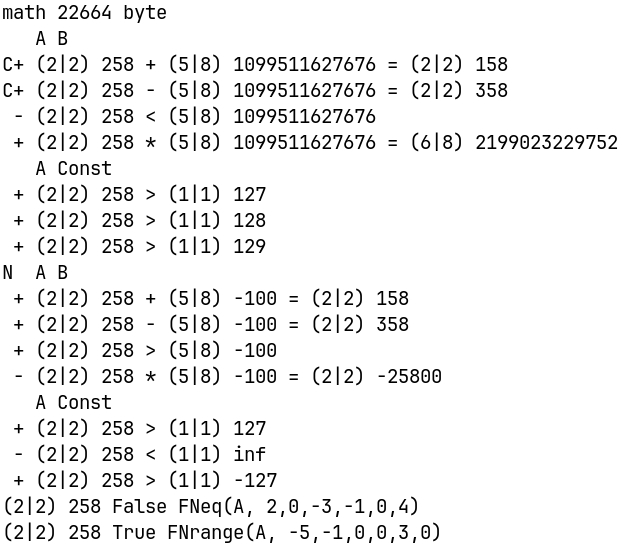
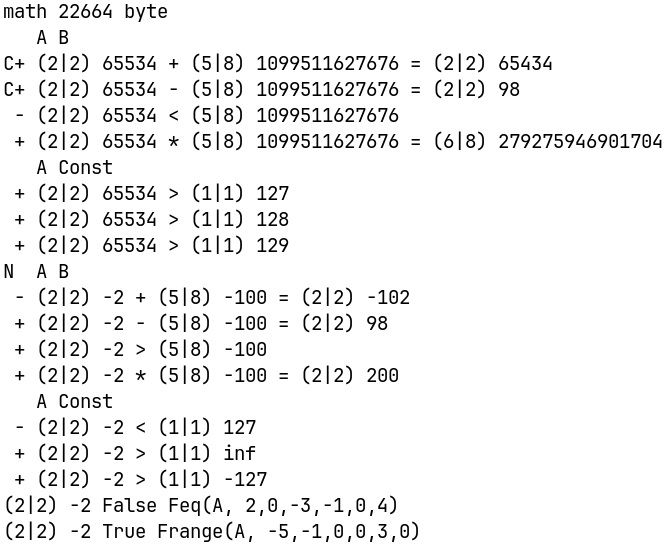
v19.5

Changed region(s): [[0.0, 0.0, 0.9968, 0.9982], [0.0, 0.4679, 0.0302, 0.5303], [0.0, 0.156, 0.0302, 0.1872]]

diff --git a/math.h b/math.h
@@ -47,7 +47,6 @@ void FMUL(an r, an a, anu l, an b);             // Умножение r = a * b
 void FCMUL(an r, an a, anu l, an c);            // r = a * Const
 void FDIV(an r, an e, an a, anu l, an b);       // Деление r = a / b, e = a mod b - Евклид {+}
 void FCDIV(an r, an e, an a, anu l, an c);      // r = a / Const, e = a mod Const
-
 extern Math Mat;
 #define MATH_CACHE_INIT Math Mat = {0};
 #define Anu(...) (anu)(sizeof((anu[]){0, ##__VA_ARGS__})-1), (anu[]){0, ##__VA_ARGS__}+1
@@ -62,36 +61,36 @@ extern Math Mat;
 #define Fvar(f, r, ...) FVI(f, r, Anu(__VA_ARGS__))
 #define Fvi(r, ...) FVI(0, r, Anu(__VA_ARGS__))
 #define Fbvi(r, ...) FVI(1, r, Anu(__VA_ARGS__))
-#define FAdd(r, a) FADD(r, a, Mat.lb, Mat.B)
+#define FRAdd(r, a) FADD(r, a, Mat.lb, Mat.B)
 #define FCAdd(r, a, ...) FCADD(r, a, Anu(__VA_ARGS__))
-#define Fadd(r) FADD(r, r, Mat.lb, Mat.B)
+#define FRadd(r) FADD(r, r, Mat.lb, Mat.B)
 #define FCadd(r, ...) FCADD(r, r, Anu(__VA_ARGS__))
-#define FSub(r, a) FSUB(r, a, Mat.lb, Mat.B)
+#define FRSub(r, a) FSUB(r, a, Mat.lb, Mat.B)
 #define FCSub(r, a, ...) FCSUB(r, a, Anu(__VA_ARGS__))
-#define Fsub(r) FSUB(r, r, Mat.lb, Mat.B)
+#define FRsub(r) FSUB(r, r, Mat.lb, Mat.B)
 #define FCsub(r, ...) FCSUB(r, r, Anu(__VA_ARGS__))
-#define Fcmp(a) FCMP(a, Mat.lb, Mat.B)
+#define FRcmp(a) FCMP(a, Mat.lb, Mat.B)
 #define FCcmp(a, ...) FCCMP(a, Anu(__VA_ARGS__))
-#define FNeq(a, ...) FEQ(a, Anu(__VA_ARGS__))
-#define FNrange(a, ...) FRANGE(a, Anu(__VA_ARGS__))
-#define Feq(a) (FCMP(a, Mat.lb, Mat.B), Mat.F)               // a == b
+#define Feq(a, ...) FEQ(a, Anu(__VA_ARGS__))
+#define Frange(a, ...) FRANGE(a, Anu(__VA_ARGS__))
+#define FReq(a) (FCMP(a, Mat.lb, Mat.B), Mat.F)              // a == b
 #define FCeq(a, ...) (FCCMP(a, Anu(__VA_ARGS__)), Mat.F)
-#define Fne(a) (FCMP(a, Mat.lb, Mat.B), !Mat.F)              // a != b
+#define FRne(a) (FCMP(a, Mat.lb, Mat.B), !Mat.F)             // a != b
 #define FCne(a, ...) (FCCMP(a, Anu(__VA_ARGS__)), !Mat.F)
-#define Flt(a) (FCMP(a, Mat.lb, Mat.B), Mat.N)               // a < b
+#define FRlt(a) (FCMP(a, Mat.lb, Mat.B), Mat.N)              // a < b
 #define FClt(a, ...) (FCCMP(a, Anu(__VA_ARGS__)), Mat.N)
-#define Fge(a) (FCMP(a, Mat.lb, Mat.B), !Mat.N)              // a >= b
+#define FRge(a) (FCMP(a, Mat.lb, Mat.B), !Mat.N)             // a >= b
 #define FCge(a, ...) (FCCMP(a, Anu(__VA_ARGS__)), !Mat.N)
-#define Fgt(a) (FCMP(a, Mat.lb, Mat.B), !(Mat.N | Mat.F))    // a > b
+#define FRgt(a) (FCMP(a, Mat.lb, Mat.B), !(Mat.N | Mat.F))   // a > b
 #define FCgt(a, ...) (FCCMP(a, Anu(__VA_ARGS__)), !(Mat.N | Mat.F))
-#define Fle(a) (FCMP(a, Mat.lb, Mat.B), (Mat.N | Mat.F))     // a <= b
+#define FRle(a) (FCMP(a, Mat.lb, Mat.B), (Mat.N | Mat.F))    // a <= b
 #define FCle(a, ...) (FCCMP(a, Anu(__VA_ARGS__)), (Mat.N | Mat.F))
-#define FMul(r, a) FMUL(r, a, Mat.lb, Mat.B)
+#define FRMul(r, a) FMUL(r, a, Mat.lb, Mat.B)
 #define FCMul(r, a, ...) FCMUL(r, a, Anu(__VA_ARGS__))
-#define Fmul(r) FMUL(r, r, Mat.lb, Mat.B)
+#define FRmul(r) FMUL(r, r, Mat.lb, Mat.B)
 #define FCmul(r, ...) FCMUL(r, r, Anu(__VA_ARGS__))
-#define FDiv(r, e, a) FDIV(r, e, a, Mat.lb, Mat.B)
+#define FRDiv(r, e, a) FDIV(r, e, a, Mat.lb, Mat.B)
 #define FCDiv(r, e, a, ...) FCDIV(r, e, a, Anu(__VA_ARGS__))
-#define Fdiv(r, e) FDIV(r, e, r, Mat.lb, Mat.B)
+#define FRdiv(r, e) FDIV(r, e, r, Mat.lb, Mat.B)
 #define FCdiv(r, e, ...) FCDIV(r, e, r, Anu(__VA_ARGS__))
 #endif

diff --git a/main.c b/main.c
@@ -19,8 +19,8 @@ void Num(anu s, an a) { anu ns, t[m]; if (s > 8) printf(" %d|? ", s + 1);
         else if (ns) printf("%d ", *(int16_t*)a); else printf("%d ", *(int8_t*)a); }
       else { if (ns > 3) printf("%lu ", *(uint64_t*)a); else if (ns > 1) printf("%u ", *(uint32_t*)a);
         else if (ns) printf("%u ", *(uint16_t*)a); else printf("%u ", *(uint8_t*)a); } } } }
-void Show(char s) { Flong(la,lb); Mat.C = 0; if (s == '+') FAdd(Mat.R, Mat.A); else if (s == '-') FSub(Mat.R, Mat.A);
-  else if (s == '*') FMul(Mat.R, Mat.A); else if (s == '/') FDiv(Mat.R, Mat.A, Mat.E); else if (s == '?') Fcmp(Mat.A);
+void Show(char s) { Flong(la,lb); Mat.C = 0; if (s == '+') FRAdd(Mat.R, Mat.A); else if (s == '-') FRSub(Mat.R, Mat.A);
+  else if (s == '*') FRMul(Mat.R, Mat.A); else if (s == '/') FRDiv(Mat.R, Mat.A, Mat.E); else if (s == '?') FRcmp(Mat.A);
   else { FCcmp(Mat.A, 127); } printf("%c%c ", Mat.C ? 'C':' ', Mat.F ? Mat.N ? 'I':'Z':Mat.N ? '-':'+'); Num(la, Mat.A);
   if (s == '?' || s == 'c') printf("%c ", Mat.N ? '<':Mat.F ? '=':'>');
   else { if (s == 'c') printf("? "); else printf("%c ", s); } Num(Mat.lb, Mat.b); if (s < '?') { printf("= "); Num(Mat.l, Mat.R);
@@ -29,7 +29,7 @@ void Const(void) { an sb; anu l, i = 2; printf("   A Const\n"); Show('c'); sb = 
   while(i--) { if (!++(*Mat.B) && lb) { (*(Mat.B + 1))++; } Show('?'); } Mat.B = sb; lb = l; }
 void Test(void) { printf("%c%c A B\n", Mat.Nim ? 'N':' ', Mat.V ? 'V':' '); Show('+'); Show('-'); Show('?');
   Show('*'); /*Show('/');*/ Const(); }
-void Cmp(void) { Num(la, Mat.A); Mat.C = 0; printf("%s FNeq(A, 2,0,-3,-1,0,4)\n", FNeq(Mat.A, 2,0,-3,-1,0,4) ? "True":"False");
-  Num(la, Mat.A); printf("%s FNrange(A, -5,-1,0,0,3,0)\n", FNrange(Mat.A, -5,-1,0,0,3,0) ? "True":"False"); }
-int main(void) { anu v = 0,a[m],b[m],e[m],r[m+m]; Faddr((As)r, (As)e, (As)a, (As)b); Fini(0,v); la = Fbvi(Mat.A, 1,2);
+void Cmp(void) { Num(la, Mat.A); Mat.C = 0; printf("%s Feq(A, 2,0,-3,-1,0,4)\n", Feq(Mat.A, 2,0,-3,-1,0,4) ? "True":"False");
+  Num(la, Mat.A); printf("%s Frange(A, -5,-1,0,0,3,0)\n", Frange(Mat.A, -5,-1,0,0,3,0) ? "True":"False"); }
+int main(void) { anu v = 0,a[m],b[m],e[m],r[m+m]; Faddr((As)r, (As)e, (As)a, (As)b); Fini(0,v); la = Fbvi(Mat.A, -1,-2);
   lb = Fvi(Mat.B, -100,255,255,255,255); Test(); Fset(1,v); la = Fmov(la, Mat.A); lb = Fmov(lb, Mat.B); Test(); Cmp(); return 0; }

diff --git a/README.md b/README.md
@@ -17,7 +17,7 @@
 P.s.: Блокировку убрали как только добавил сообщение о ней на главную страницу, длилась минут 20 как я заметил и принял меры чтоб сообщить об этом Вам. Это сообщение останется (20.09.2026 ~16.00 по местному +7) как память, так, что буду стараться вопреки не востребованности в России по данной области дабы остальной народ мог этим воспользоваться. Проанализируйте события с момента как я вернулся в эту сферу (конец января 2026 выложен Products готовый полностью затем занялся Fresh в начале февраля 2026), всё это время обновлялся код и было забавно видеть на open.net новости - даже компании серьёзные их как озарило - так, что у меня нет желания и времени следить за соблюдением GPLv3 из России, если заметите нарушение лицензии, то гарантировано взаимовыгодное сотрудничество.
 
 <div align="center">
-  <h1>Результат запуска v19.3</h1>
+  <h1>Результат запуска v19.5</h1>
   
   <picture>
     <source media="(prefers-color-scheme: dark)" srcset="Plus/psb.jpeg">
